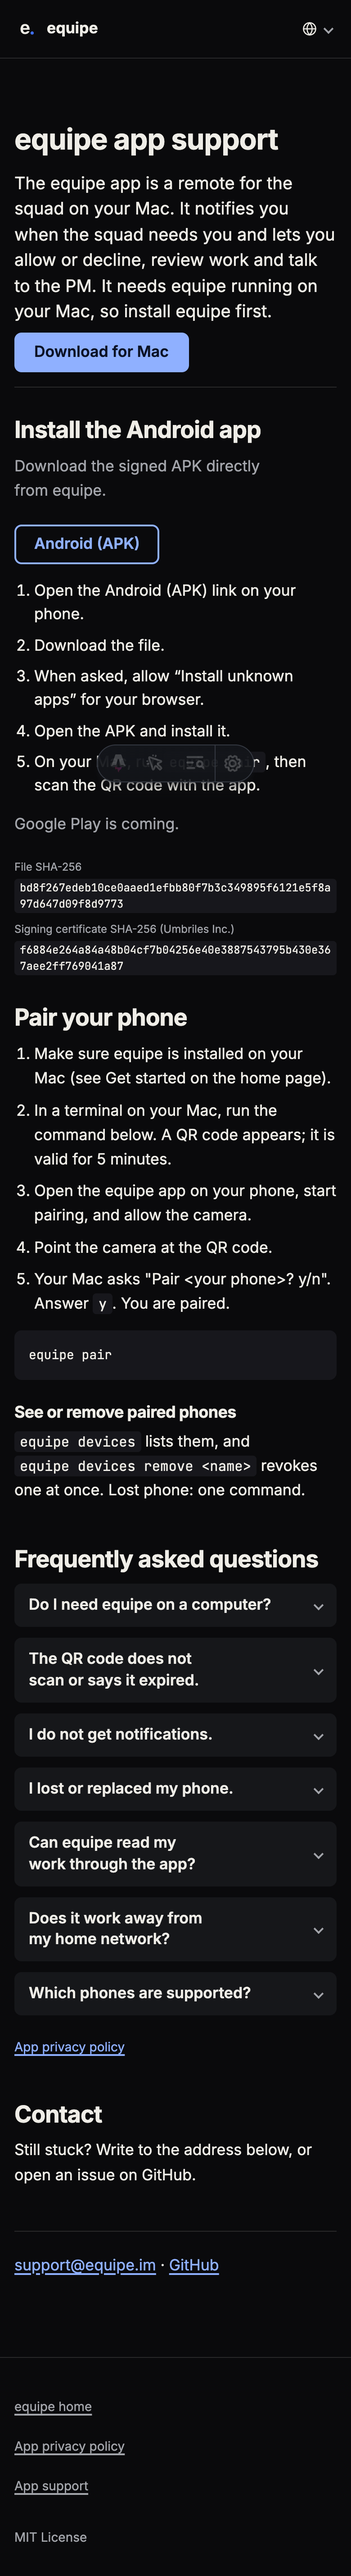
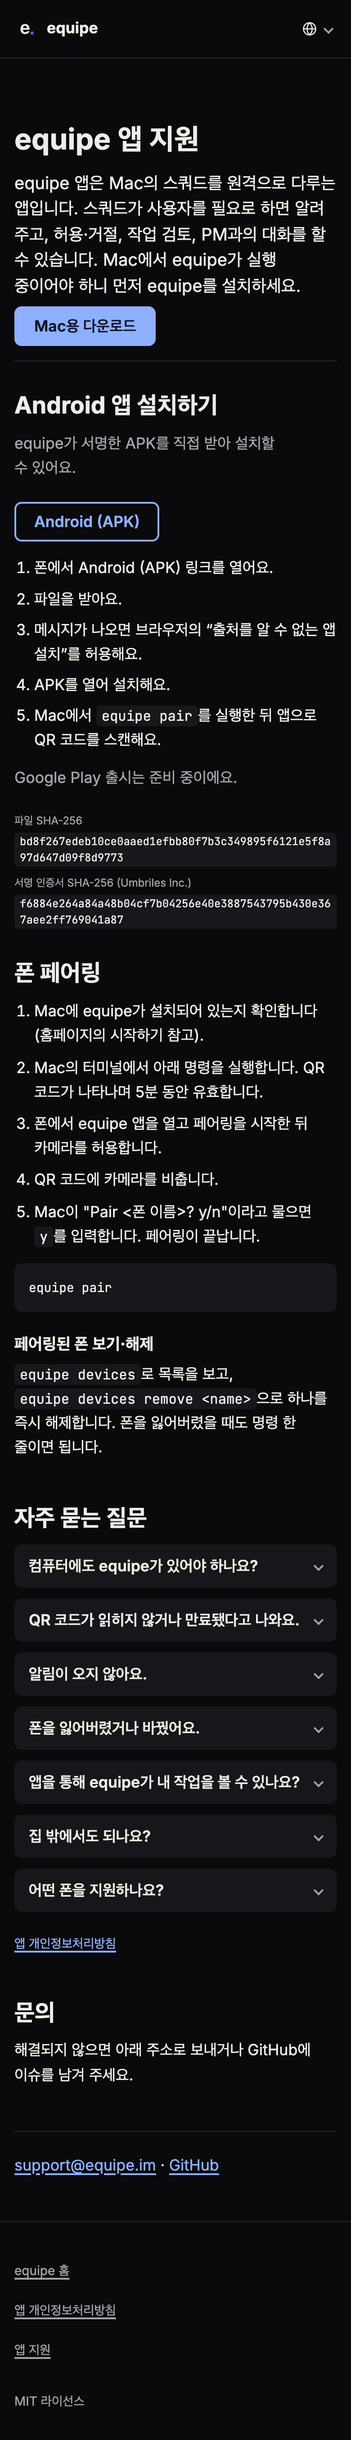
app 문서 푸터: 본문 아래 여백 축소, UI 맵 ko·long 상태를 프로덕션 미리보기로 재촬영 (T-608)

diff --git a/src/styles/global.css b/src/styles/global.css
@@ -157,6 +157,7 @@ code, pre, pre:lang(ko), pre:lang(ja), pre:lang(zh-CN), code:lang(ko), code:lang
 .android-hashes code { display: block; overflow-wrap: anywhere; word-break: break-all; font-size: 12px; line-height: 1.5; }
 @media (hover: hover) { .android-install .btn:hover { background: var(--surface); } }
 main.doc { padding: var(--s-7) 0 var(--s-8); }
+@media (max-width: 640px) { main.app-doc { padding-bottom: var(--s-6); } }
 main.doc h1 { font-size: 32px; line-height: 1.15; }
 @media (min-width: 641px) { main.doc h1 { font-size: 44px; } }
 main.doc .lead { font-size: 19px; line-height: 1.5; margin: var(--s-4) 0 var(--s-2); }
